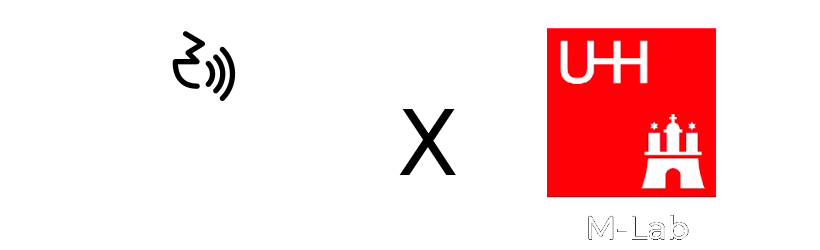
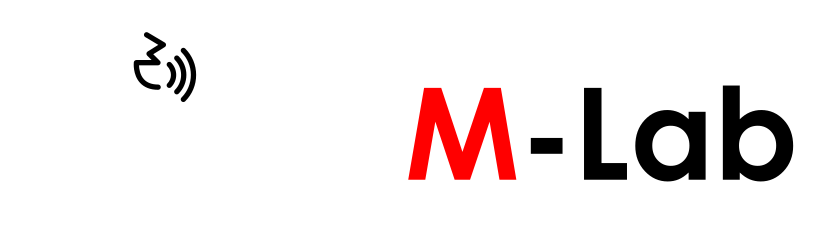
first presentable version

Changed region(s): [[0.4878, 0.112, 0.9756, 0.812], [0.1524, 0.112, 0.3049, 0.42], [0.7012, 0.868, 0.8537, 0.98]]

diff --git a/index.html b/index.html
@@ -18,7 +18,7 @@
 	<meta property="og:type" content="article" />
 
     <!-- Website Title -->
-    <title>Leno - Free Mobile App Landing Page Template</title>
+    <title>Speechalyse</title>
     
     <!-- Styles -->
     <link href="https://fonts.googleapis.com/css?family=Montserrat:400,600,700" rel="stylesheet">
@@ -30,7 +30,7 @@
 	<link href="css/styles.css" rel="stylesheet">
 	
 	<!-- Favicon  -->
-    <link rel="icon" href="images/favicon.png">
+    <link rel="icon" href="images/mlab-images/logo-speechalyze-small.png">
 </head>
 <body data-spy="scroll" data-target=".fixed-top">
     
@@ -51,7 +51,7 @@
         <!-- <a class="navbar-brand logo-text page-scroll" href="index.html">Leno</a> -->
 
         <!-- Image Logo -->
-        <a class="navbar-brand logo-image" href="index.html"><img src="images/mlab-images/logo-compact.svg" alt="Speechalyse"></a> 
+        <a class="navbar-brand logo-image" href="index.html"><img src="images/mlab-images/logo-speechalyze-small.png" alt="Speechalyse"></a> 
         
         <!-- Mobile Menu Toggle Button -->
         <button class="navbar-toggler" type="button" data-toggle="collapse" data-target="#navbarsExampleDefault" aria-controls="navbarsExampleDefault" aria-expanded="false" aria-label="Toggle navigation">
@@ -118,7 +118,7 @@
                             <p class="p-large">Speechalyse is a diagnostics and reaserch software designed for speech impediments. Download it today!</p>
                             <a class="btn-solid-lg page-scroll" href="#your-link"><i class="fab fa-apple"></i>APP STORE</a>
                             <a class="btn-solid-lg page-scroll" href="#your-link"><i class="fab fa-google-play"></i>PLAY STORE</a>
-                            <a class="btn-solid-lg page-scroll" href="#your-link"><i class="fab fa-desktop"></i>DESKTOP</a>
+                            <a class="btn-solid-lg page-scroll" href="#your-link"><i class="fas fa-desktop"></i> DESKTOP</a>
                         </div>
                     </div> <!-- end of col -->
                     <div class="col-lg-6">
@@ -177,18 +177,18 @@
                                         <div class="card-body">
                                             <div class="text-wrapper">
                                                 <h4 class="card-title">Sclalable Test Conduction</h4>
-                                                <p>With Speechalyse the conduction of tests with large groups of subjects is easy</p>
+                                                <p>With Speechalyse the conduction of tests with large subjects groups is easy</p>
                                             </div>
                                             <div class="card-icon">
-                                                <i class="far fa-compass"></i>
+                                                <i class="far fa-stack-1x"></i>
                                             </div>
                                         </div>
                                     </div>
                                     <div class="card left-pane">
                                         <div class="card-body">
                                             <div class="text-wrapper">
-                                                <h4 class="card-title">Visual Test Editor</h4>
-                                                <p>Speechalyse comes with a visual editor to create custom test schemes</p>
+                                                <h4 class="card-title">Production Test</h4>
+                                                <p>In the production test Speechalyse captures the speech production skills. Thie gives inside into the  motorical speech production skills of the patient or subject.</p>
                                             </div>
                                             <div class="card-icon">
                                                 <i class="far fa-file-code"></i>
@@ -218,28 +218,30 @@
                                 
                                 <!-- Icon Cards Pane -->
                                 <div class="col-lg-4">
-                                    <div class="card right-pane first">
+                                <div class="card right-pane first">
+                                    <div class="card-body">
+                                        <div class="card-icon">
+                                            <i class="far fa-times"></i>
+                                        </div>
+                                        <div class="text-wrapper">
+                                            <h4 class="card-title">Visual Test Editor</h4>
+                                            <p>Speechalyse comes with a visual editor to create custom test schemes</p>
+                                        </div>
+                                    </div>
+                                
+                                
+                                    <div class="card right-pane ">
                                         <div class="card-body">
                                             <div class="card-icon">
-                                                <i class="far fa-calendar-check"></i>
+                                                <i class="far fa-gem"></i>
                                             </div>
                                             <div class="text-wrapper">
-                                                <h4 class="card-title">Calendar Input</h4>
-                                                <p>Schedule your appointments, meetings and periodical evaluations using the provided in-app calendar option</p>
+                                                <h4 class="card-title">Perceprion Test</h4>
+                                                <p>With the perception test Speechalyse is able to capture the perception performance. This is enables resaercher and therapist to understand the cognetive speech capabilities of the subject or patient</p>
                                             </div>
                                         </div>
                                     </div>
-                                    <div class="card right-pane">
-                                        <div class="card-body">
-                                            <div class="card-icon">
-                                                <i class="far fa-bookmark"></i>
-                                            </div>
-                                            <div class="text-wrapper">
-                                                <h4 class="card-title">Easy Reading</h4>
-                                                <p>Reading focus mode for long form articles, ebooks and other materials which involve large text areas</p>
-                                            </div>
-                                        </div>
-                                    </div>
+                                    
                                     <!-- end o
                                     <div class="card right-pane">
                                         <div class="card-body">
@@ -253,6 +255,7 @@
                                         </div>
                                     </div>end of icon cards pane -->
                                 </div>
+                            </div>
                                  
 
                             </div> <!-- end of row -->
@@ -284,8 +287,8 @@
                                                     <i class="fas fa-cube"></i>
                                                 </div>
                                                 <div class="card-body">
-                                                    <h4 class="card-title">Good Foundation</h4>
-                                                    <p>Get a solid foundation for your self development efforts. Try Leno mobile app for any mobile platform</p>
+                                                    <h4 class="card-title">Remote study conduction</h4>
+                                                    <p>Studies can be conducted on the device of the subject. This allows for remote therapie data collection.</p>
                                                 </div>
                                             </div>
                                             <div class="card">
@@ -293,8 +296,8 @@
                                                     <i class="far fa-bookmark"></i>
                                                 </div>
                                                 <div class="card-body">
-                                                    <h4 class="card-title">Easy Reading</h4>
-                                                    <p>Reading focus mode for long form articles, ebooks and other materials which involve large text areas</p>
+                                                    <h4 class="card-title">Informative Dashboard</h4>
+                                                    <p>Strack the progress of your subject throw a informative and readable dashboard</p>
                                                 </div>
                                             </div>
                                             <div class="card">
@@ -302,8 +305,8 @@
                                                     <i class="far fa-calendar-check"></i>
                                                 </div>
                                                 <div class="card-body">
-                                                    <h4 class="card-title">Calendar Input</h4>
-                                                    <p>Schedule your appointments, meetings and periodical evaluations using the provided in-app calendar option</p>
+                                                    <h4 class="card-title">Motivating Therapie</h4>
+                                                    <p>Create a motivating and progress oriented therapie enviroment throw auotomated feedback. </p>
                                                 </div>
                                             </div>
                                             <div class="card">
@@ -311,7 +314,7 @@
                                                     <i class="far fa-file-code"></i>
                                                 </div>
                                                 <div class="card-body">
-                                                    <h4 class="card-title">Visual Editor</h4>
+                                                    <h4 class="card-title">Enhance Efficancy</h4>
                                                     <p>Leno provides a well designed and ergonomic visual editor for you to edit your notes and input data</p>
                                                 </div>
                                             </div>
@@ -337,8 +340,8 @@
                                                 <i class="far fa-calendar-check"></i>
                                             </div>
                                             <div class="card-body">
-                                                <h4 class="card-title">Calendar Input</h4>
-                                                <p>Schedule your appointments, meetings and periodical evaluations using the provided in-app calendar option</p>
+                                                <h4 class="card-title">Automated Perception Testing</h4>
+                                                <p>The perception test are evaluated fully aoutomatic and safe huge amounts of time in therapie and reaserch</p>
                                             </div>
                                         </div>
                                         <div class="card">
@@ -346,8 +349,8 @@
                                                 <i class="far fa-file-code"></i>
                                             </div>
                                             <div class="card-body">
-                                                <h4 class="card-title">Visual Editor</h4>
-                                                <p>Leno provides a well designed and ergonomic visual editor for you to edit your notes and input data</p>
+                                                <h4 class="card-title">Easy Production Automation</h4>
+                                                <p>Speachalyse assists in evaluating production test and reduces the time spend with the evaluation of the data to a minimum.</p>
                                             </div>
                                         </div>
                                         <div class="card">
@@ -355,8 +358,8 @@
                                                 <i class="fas fa-cube"></i>
                                             </div>
                                             <div class="card-body">
-                                                <h4 class="card-title">Good Foundation</h4>
-                                                <p>Get a solid foundation for your self development efforts. Try Leno mobile app for any mobile platform</p>
+                                                <h4 class="card-title">Easy CSV Export</h4>
+                                                <p>Speechalyse exports the ecaluated data in csv to enable further analysis</p>
                                             </div>
                                         </div>
                                         <div class="card">
@@ -364,16 +367,16 @@
                                                 <i class="far fa-bookmark"></i>
                                             </div>
                                             <div class="card-body">
-                                                <h4 class="card-title">Easy Reading</h4>
-                                                <p>Reading focus mode for long form articles, ebooks and other materials which involve large text areas</p>
+                                                <h4 class="card-title">Colaboration</h4>
+                                                <p>Collaborate with other speech therapists and resaercher to reduce the workload for each person</p>
                                             </div>
                                         </div>
                                     </div> <!-- end of icon cards area -->
-                                    
+                                    <!--
                                     <div class="text-area">
                                         <h3>Monitoring Tools Evaluation</h3>
                                         <p>Monitor the evolution of your finances and health state using tools integrated in Leno. The generated real time reports can be filtered based on any <a class="turquoise" href="#your-link">desired criteria</a>.</p>
-                                    </div> <!-- end of text-area -->
+                                    </div>  end of text-area -->
                                 </div> <!-- end of col-md-8 -->
                                 <!-- end of text and icon cards area -->
 
@@ -483,9 +486,11 @@
 				<h3>Reaserch with Speechalyse</h3>
 				<hr>
                 <p> Speechalyse is a sophisticated reaserch tool for speech impediments. It enables the conduction of large studies on speech impediments.</p>
-                <h4>User Feedback</h4>
-                <p>This is a great app which can help you save time and make your live easier. And it will help improve your productivity levels.</p>
-                <p>You should definitely give it a try when you need a good app.</p>
+                <br/>
+                <p>As original constructed as a pure reaserch tool Speechalyse implemts test for the analysis of speech impediments. It can conduct large studies to examine speech 
+                    impediments with large subject pools.
+                </p>
+                <!-- end of row -
 				<table>
 					<tr><td class="icon-cell"><i class="fas fa-desktop"></i></td><td>Responsive layout</td></tr>
 					<tr><td class="icon-cell"><i class="fas fa-bullhorn"></i></td><td>Distinctive CTAs</td></tr>
@@ -493,10 +498,10 @@
 					<tr><td class="icon-cell"><i class="fas fa-envelope"></i></td><td>Contact forms</td></tr>
 					<tr><td class="icon-cell"><i class="fab fa-font-awesome-flag"></i></td><td>FontAwesome icons</td></tr>
 					<tr><td class="icon-cell"><i class="fas fa-code"></i></td><td>Well-structured code</td></tr>
-				</table>
+				</table> end of row -->
 				<a class="btn-solid-reg" href="#your-link">DETAILS</a> <a class="btn-outline-reg mfp-close as-button" href="#details">BACK</a> 
 			</div>
-		</div> <!-- end of row -->
+		</div> 
     </div> <!-- end of lightbox-basic -->
     <!-- end of lightbox -->
     
@@ -511,9 +516,11 @@
 				<h3>Therapie with Speechalyse</h3>
 				<hr>
                 <p>Speechalyse as a diagnostic assistance tool enables the therapist to interact with his patiance remote. </p>
-                <h4>User Feedback</h4>
-                <p>This is a great app which can help you save time and make your live easier. And it will help improve your productivity levels.</p>
-                <p>You should definitely give it a try when you need a good app.</p>
+                <br/>
+                <p>Speechalyse is an ideal tool to assist in speech therapies. It benefits from new test procedures and methodes that are derived by the current reaserch. 
+                    Furthermore Speechalyse enables an integrated therapie throw remote testing, where the patients can not only be tested in precious therapie sessions</p>
+                
+                <!-- 
 				<table>
 					<tr><td class="icon-cell"><i class="fas fa-desktop"></i></td><td>Responsive layout</td></tr>
 					<tr><td class="icon-cell"><i class="fas fa-bullhorn"></i></td><td>Distinctive CTAs</td></tr>
@@ -521,10 +528,10 @@
 					<tr><td class="icon-cell"><i class="fas fa-envelope"></i></td><td>Contact forms</td></tr>
 					<tr><td class="icon-cell"><i class="fab fa-font-awesome-flag"></i></td><td>FontAwesome icons</td></tr>
 					<tr><td class="icon-cell"><i class="fas fa-code"></i></td><td>Well-structured code</td></tr>
-				</table>
+				</table>end of row -->
 				<a class="btn-solid-reg" href="#your-link">DETAILS</a> <a class="btn-outline-reg mfp-close as-button" href="#details">BACK</a>
 			</div>
-		</div> <!-- end of row -->
+		</div> 
     </div> <!-- end of lightbox-basic -->
     <!-- end of lightbox -->
     <!-- end of details lightboxes -->
@@ -647,6 +654,7 @@
                         <p class="p-large">Download Speechalyse today and start diagnostics</p>
                         <a class="btn-solid-lg" href="#your-link"><i class="fab fa-apple"></i>APP STORE</a>
                         <a class="btn-solid-lg" href="#your-link"><i class="fab fa-google-play"></i>PLAY STORE</a>
+                        <a class="btn-solid-lg page-scroll" href="#your-link"><i class="fas fa-desktop"></i> DESKTOP</a>
                     </div> <!-- end of text-container -->
                 </div> <!-- end of col -->
                 <div class="col-lg-6 col-xl-7">
@@ -816,10 +824,11 @@
                             <label class="label-control" for="cmessage">Your message</label>
                             <div class="help-block with-errors"></div>
                         </div>
+                        <!--
                         <div class="form-group checkbox">
                             <input type="checkbox" id="cterms" value="Agreed-to-Terms" required>I have read and agree to Leno's stated conditions in <a href="privacy-policy.html">Privacy Policy</a> and <a href="terms-conditions.html">Terms Conditions</a> 
                             <div class="help-block with-errors"></div>
-                        </div>
+                        </div>-->
                         <div class="form-group">
                             <button type="submit" class="form-control-submit-button">SUBMIT MESSAGE</button>
                         </div>

diff --git a/css/styles.css b/css/styles.css
@@ -632,7 +632,7 @@ input[type='checkbox'] {
 }
 
 .navbar-custom .navbar-brand.logo-image img {
-    width: 100px;
+    width: 50px;
 	height: 50px;
 	margin-bottom: 1px;
 	-webkit-backface-visibility: hidden;
@@ -1774,7 +1774,7 @@ a:hover.back-to-top {
 	.header .header-content {
 		padding-top: 13rem;
 		padding-bottom: 10rem;
-		text-align: left;
+		text-align: center;
 	}
 
 	.header .text-container {
@@ -1887,7 +1887,7 @@ a:hover.back-to-top {
 	.basic-4 .text-container {
 		margin-top: 7rem;
 		margin-bottom: 0;
-		text-align: left;
+		text-align: center;
 	}
 	/* end of download */
 
@@ -2088,3 +2088,4 @@ a:hover.back-to-top {
 	/* end of extra pages */
 }
 /* end of min-width width 1200px */
+
